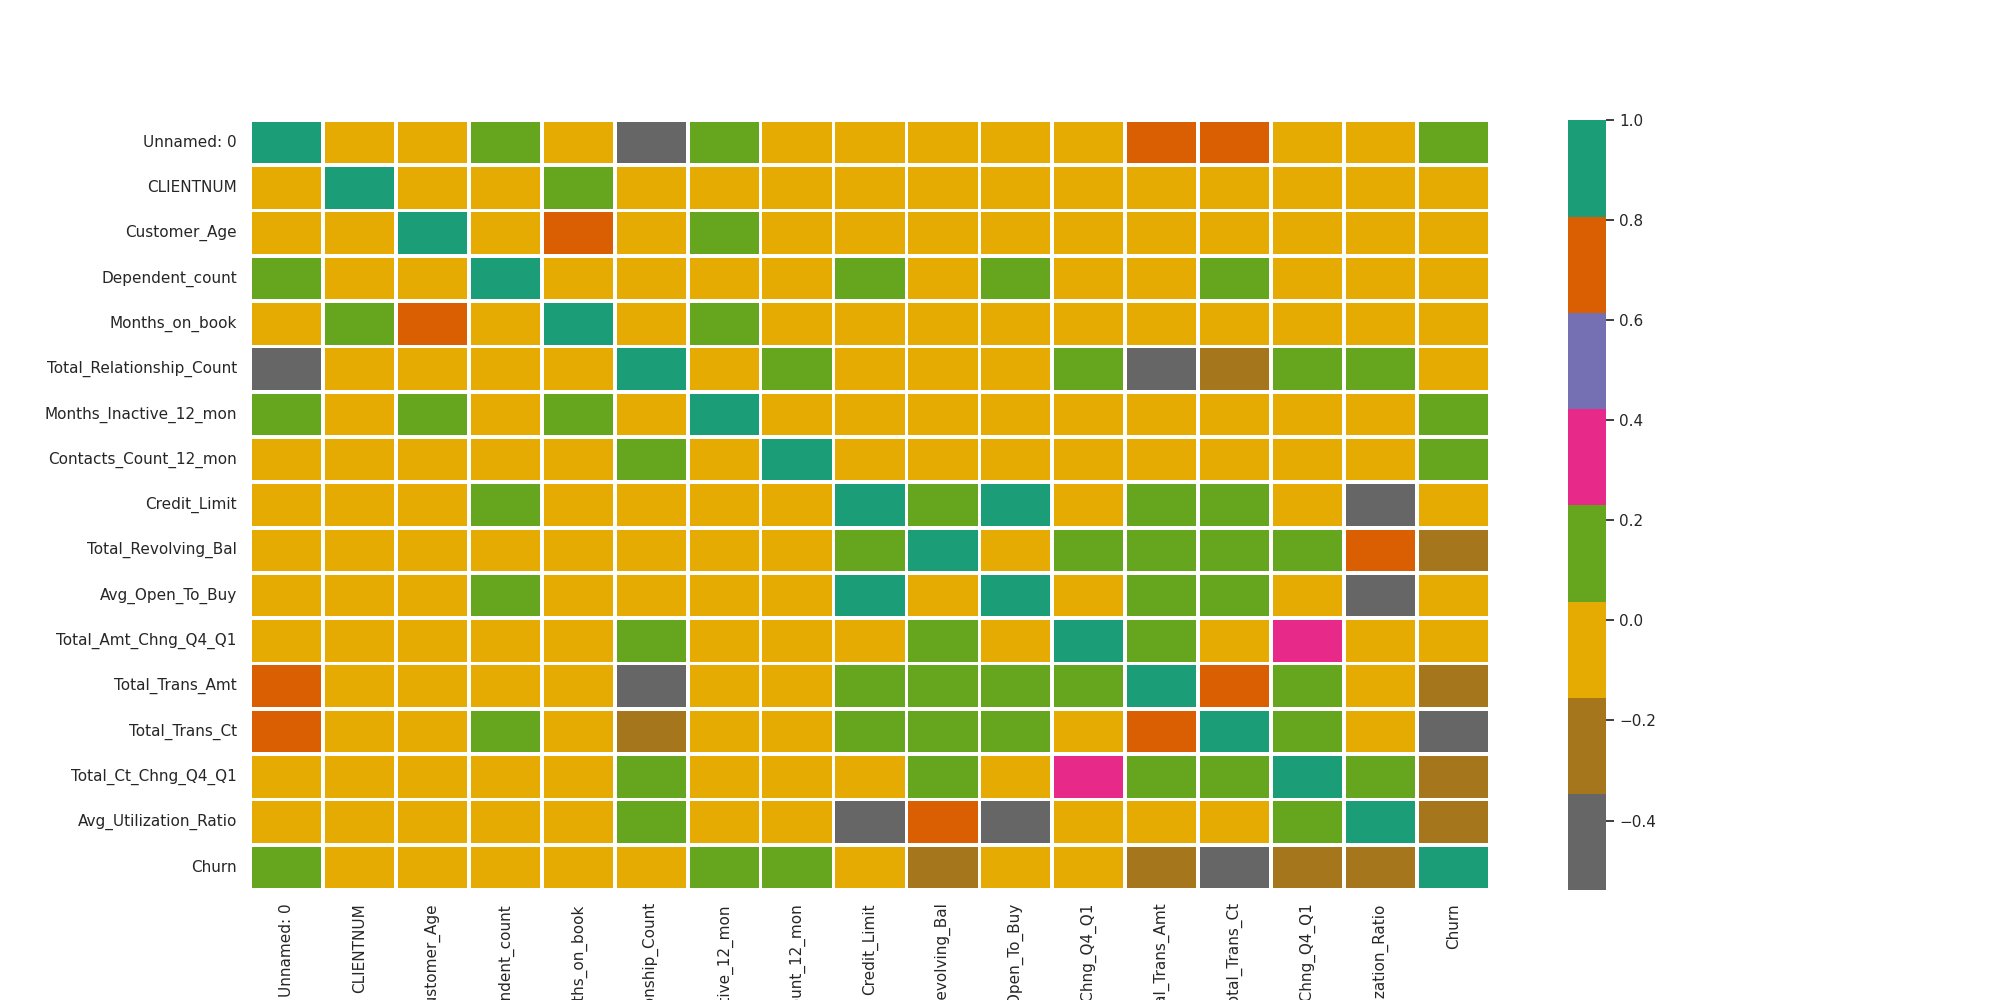
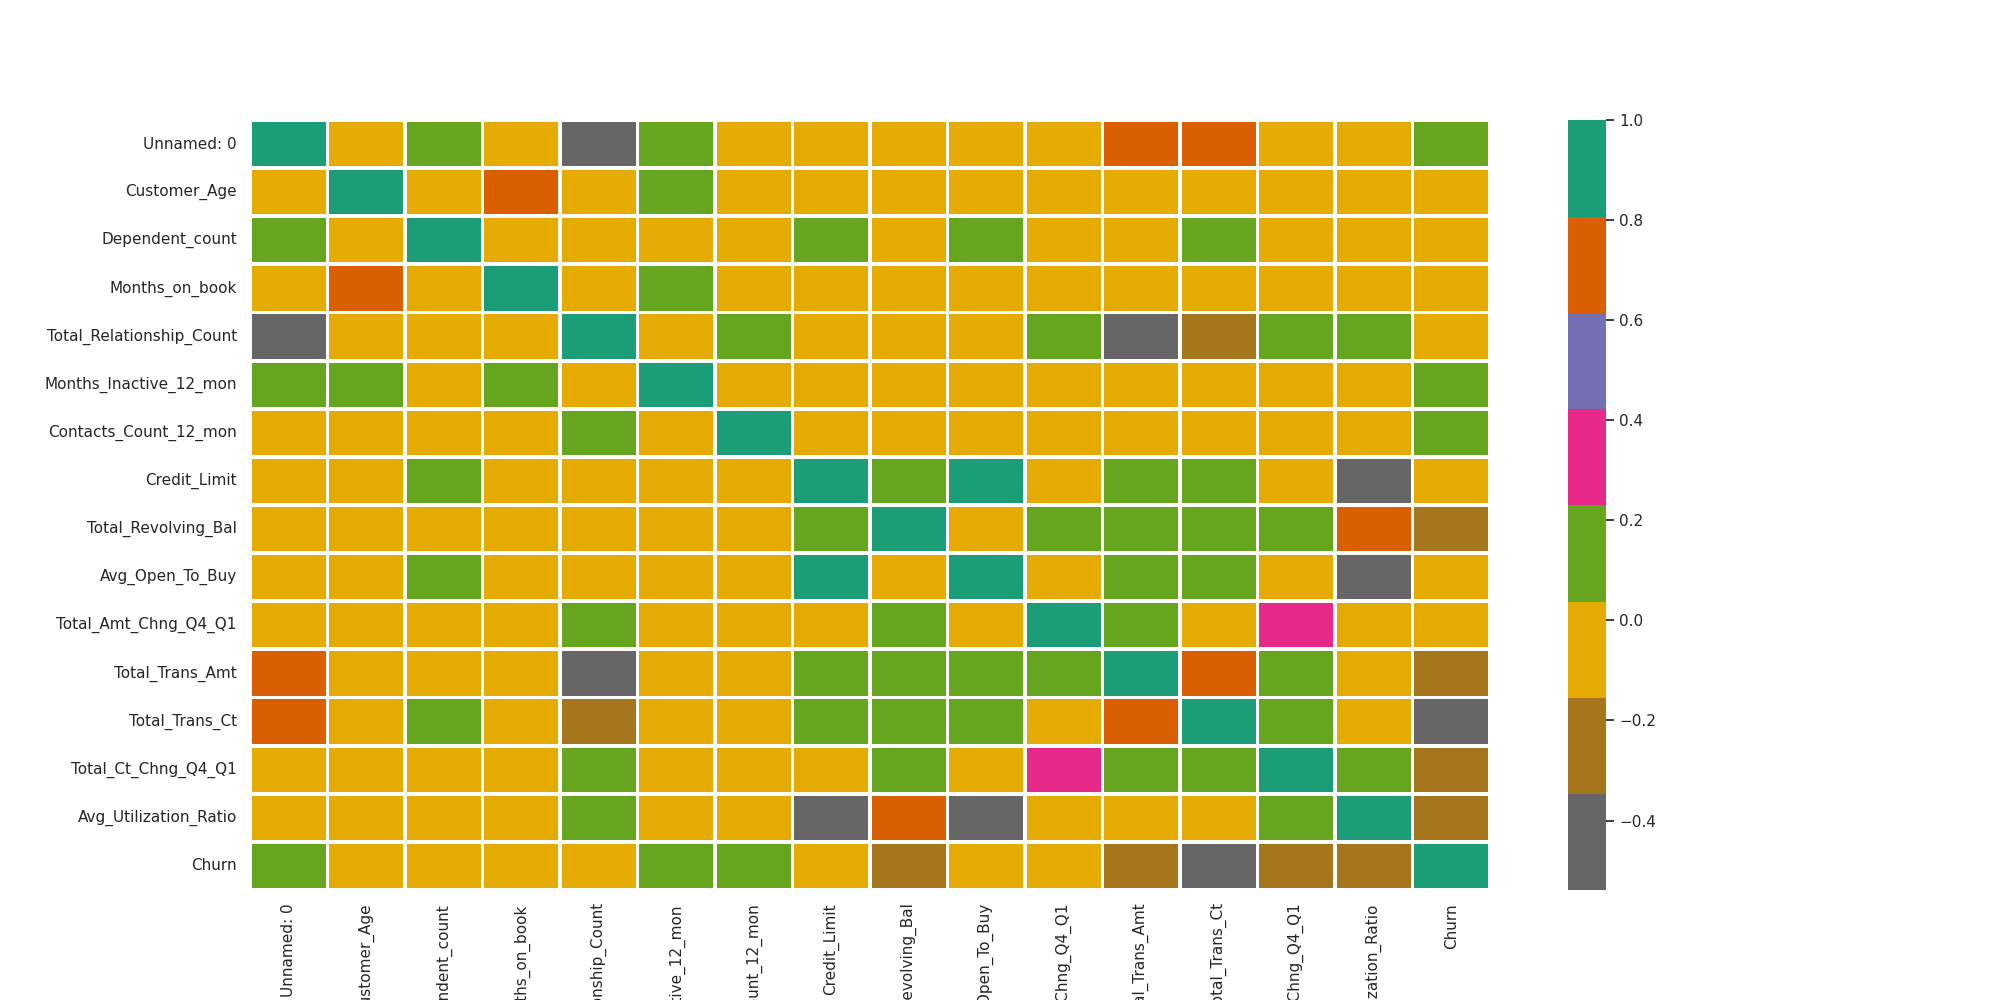
finish churn_library

diff --git a/churn_library.py b/churn_library.py
@@ -9,7 +9,6 @@ This module implements the main script for the customer churn project with clean
 # import libraries
 import os
 
-from sklearn.preprocessing import normalize
 from sklearn.model_selection import train_test_split
 
 from sklearn.linear_model import LogisticRegression
@@ -18,7 +17,6 @@ from sklearn.model_selection import GridSearchCV
 
 from sklearn.metrics import plot_roc_curve, classification_report
 
-import shap
 import joblib
 import pandas as pd
 import numpy as np
@@ -41,6 +39,10 @@ def import_data(pth):
     data_frame = pd.read_csv(pth)
     data_frame['Churn'] = data_frame['Attrition_Flag'].apply(
         lambda val: 0 if val == "Existing Customer" else 1)
+
+    data_frame.drop('Attrition_Flag', axis=1, inplace=True)
+    data_frame.drop('CLIENTNUM', axis=1, inplace=True)
+    
     return data_frame
 
 
@@ -75,7 +77,7 @@ def perform_eda(data_frame):
     plt.close()
 
 
-def encoder_helper(df, category_lst, response):
+def encoder_helper(data_frame, category_lst, response):
     '''
     helper function to turn each categorical column into a new column with
     propotion of churn for each category - associated with cell 15 from the notebook
@@ -89,13 +91,21 @@ def encoder_helper(df, category_lst, response):
     output:
             df: pandas dataframe with new columns for
     '''
-    pass
+    for category in category_lst:
+        category_groups = data_frame.groupby(category).mean()[response]
+        new_feature = f"{category}_{response}"
+        data_frame[new_feature] = data_frame[category].apply(
+            lambda x: category_groups.loc[x])
+
+    data_frame.drop(category_lst, axis=1, inplace=True)
+
+    return data_frame
 
 
-def perform_feature_engineering(df, response):
+def perform_feature_engineering(data_frame, response):
     '''
     input:
-              df: pandas dataframe
+              data_frame: pandas dataframe
               response: string of response name [optional argument that could
               be used for naming variables or index y column]
 
@@ -105,6 +115,79 @@ def perform_feature_engineering(df, response):
               y_train: y training data
               y_test: y testing data
     '''
+    # Collect categorical features to be encoded
+    cat_columns = data_frame.select_dtypes(include='object').columns.tolist()
+
+    # Encode categorical features using mean of response variable on category
+    data_frame = encoder_helper(data_frame, cat_columns, response)
+
+    y = data_frame[response]
+    X = data_frame.drop(response, axis=1)
+
+    # train test split
+    X_train, X_test, y_train, y_test = train_test_split(
+        X, y, test_size=0.3, random_state=42)
+
+    return X_train, X_test, y_train, y_test
+
+
+def plot_classification_report(model_name,
+                               y_train,
+                               y_test,
+                               y_train_preds,
+                               y_test_preds):
+    '''
+    produces classification report for training and testing results and stores
+    report as image in images folder
+
+    input:
+                    model_name: (str) name of the model, ie 'Random Forest'
+                    y_train: training response values
+                    y_test:  test response values
+                    y_train_preds: training predictions from model_name
+                    y_test_preds: test predictions from model_name
+
+    output:
+                     None
+    '''
+
+    plt.rc('figure', figsize=(5, 5))
+
+    # Plot Classification report on Train dataset
+    plt.text(0.01, 1.25,
+             str(f'{model_name} Train'),
+             {'fontsize': 10},
+             fontproperties='monospace'
+             )
+    plt.text(0.01, 0.05,
+             str(classification_report(y_train, y_train_preds)),
+             {'fontsize': 10},
+             fontproperties='monospace'
+             )
+
+    # Plot Classification report on Test dataset
+    plt.text(0.01, 0.6,
+             str(f'{model_name} Test'),
+             {'fontsize': 10},
+             fontproperties='monospace'
+             )
+    plt.text(0.01, 0.7,
+             str(classification_report(y_test, y_test_preds)),
+             {'fontsize': 10},
+             fontproperties='monospace'
+             )
+
+    plt.axis('off')
+
+    # Save figure to ./images folder
+    fig_name = f'Classification_report_{model_name}.png'
+    plt.savefig(
+        os.path.join(
+            "./images/results",
+            fig_name)
+    )
+
+    plt.close()
 
 
 def classification_report_image(y_train,
@@ -127,7 +210,19 @@ def classification_report_image(y_train,
     output:
              None
     '''
-    pass
+    plot_classification_report('Logistic Regression',
+                               y_train,
+                               y_test,
+                               y_train_preds_lr,
+                               y_test_preds_lr)
+    plt.close()
+
+    plot_classification_report('Random Forest',
+                               y_train,
+                               y_test,
+                               y_train_preds_rf,
+                               y_test_preds_rf)
+    plt.close()
 
 
 def feature_importance_plot(model, X_data, output_pth):
@@ -141,7 +236,31 @@ def feature_importance_plot(model, X_data, output_pth):
     output:
              None
     '''
-    pass
+    # Calculate feature importances
+    importances = model.feature_importances_
+    # Sort feature importances in descending order
+    indices = np.argsort(importances)[::-1]
+
+    # Rearrange feature names so they match the sorted feature importances
+    names = [X_data.columns[i] for i in indices]
+
+    # Create plot
+    plt.figure(figsize=(20, 5))
+
+    # Create plot title
+    plt.title("Feature Importance")
+    plt.ylabel('Importance')
+
+    # Add bars
+    plt.bar(range(X_data.shape[1]), importances[indices])
+
+    # Add feature names as x-axis labels
+    plt.xticks(range(X_data.shape[1]), names, rotation=90)
+
+    # Save figure to output_pth
+    plt.savefig(os.path.join(output_pth, "Feature_Importance.png"))
+
+    plt.close()
 
 
 def train_models(X_train, X_test, y_train, y_test):
@@ -155,14 +274,76 @@ def train_models(X_train, X_test, y_train, y_test):
     output:
               None
     '''
-    pass
+    # grid search
+    rfc = RandomForestClassifier(random_state=42)
+    # Use a different solver if the default 'lbfgs' fails to converge
+    # Reference:
+    # https://scikit-learn.org/stable/modules/linear_model.html#logistic-regression
+    lrc = LogisticRegression(solver='lbfgs', max_iter=3000)
+
+    param_grid = {
+        'n_estimators': [200, 500],
+        'max_features': ['auto', 'sqrt'],
+        'max_depth': [4, 5, 100],
+        'criterion': ['gini', 'entropy']
+    }
+
+    cv_rfc = GridSearchCV(estimator=rfc, param_grid=param_grid, cv=5)
+    cv_rfc.fit(X_train, y_train)
+
+    lrc.fit(X_train, y_train)
+
+    y_train_preds_rf = cv_rfc.best_estimator_.predict(X_train)
+    y_test_preds_rf = cv_rfc.best_estimator_.predict(X_test)
+
+    y_train_preds_lr = lrc.predict(X_train)
+    y_test_preds_lr = lrc.predict(X_test)
+
+    classification_report_image(y_train,
+                                y_test,
+                                y_train_preds_lr,
+                                y_train_preds_rf,
+                                y_test_preds_lr,
+                                y_test_preds_rf)
+
+    # plot ROC-curves
+    plt.figure(figsize=(15, 8))
+    ax = plt.gca()
+    plot_roc_curve(
+        cv_rfc.best_estimator_,
+        X_test,
+        y_test,
+        ax=ax,
+        alpha=0.8
+    )
+
+    plot_roc_curve(lrc, X_test, y_test, ax=ax, alpha=0.8)
+
+    # save ROC-curves to images directory
+    plt.savefig(
+        os.path.join(
+            "./images/results",
+            'ROC_curves.png'),
+        bbox_inches='tight')
+    plt.close()
+
+    # save best model
+    joblib.dump(cv_rfc.best_estimator_, './models/rfc_model.pkl')
+    joblib.dump(lrc, './models/logistic_model.pkl')
+
+    # Display feature importance on train data
+    feature_importance_plot(cv_rfc.best_estimator_,
+                            X_train,
+                            'Random_Forest',
+                            "./images/results")
 
 
-def main(pth):
+def main(pth, response):
     """
     the main function that execute the hole process
     input:
             pth: a path to the csv
+            response: string of response name
     output:
               None
     """
@@ -170,6 +351,8 @@ def main(pth):
 
     perform_eda(dataframe)
 
+    train_models(*perform_feature_engineering(dataframe, response))
+
 
 if __name__ == "__main__":
-    main("./data/bank_data.csv")
+    main("./data/bank_data.csv", "Churn")
